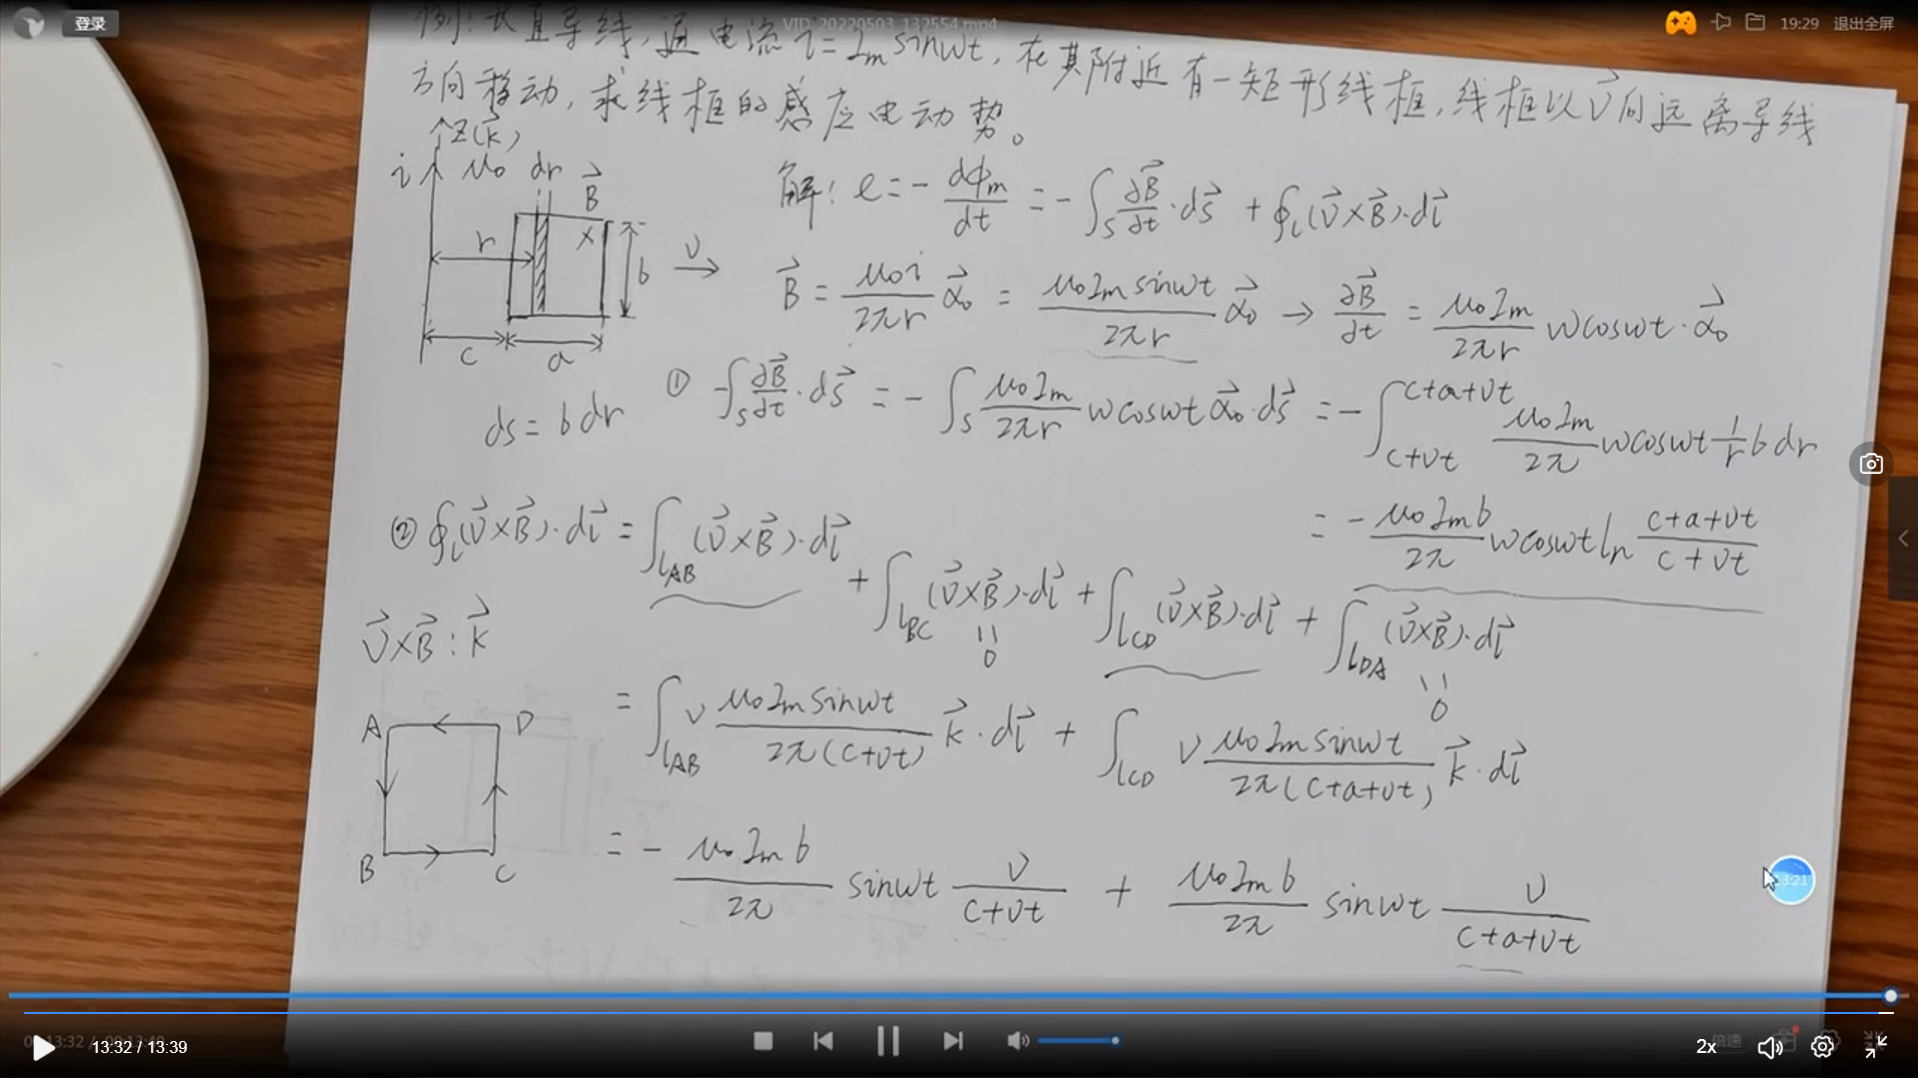
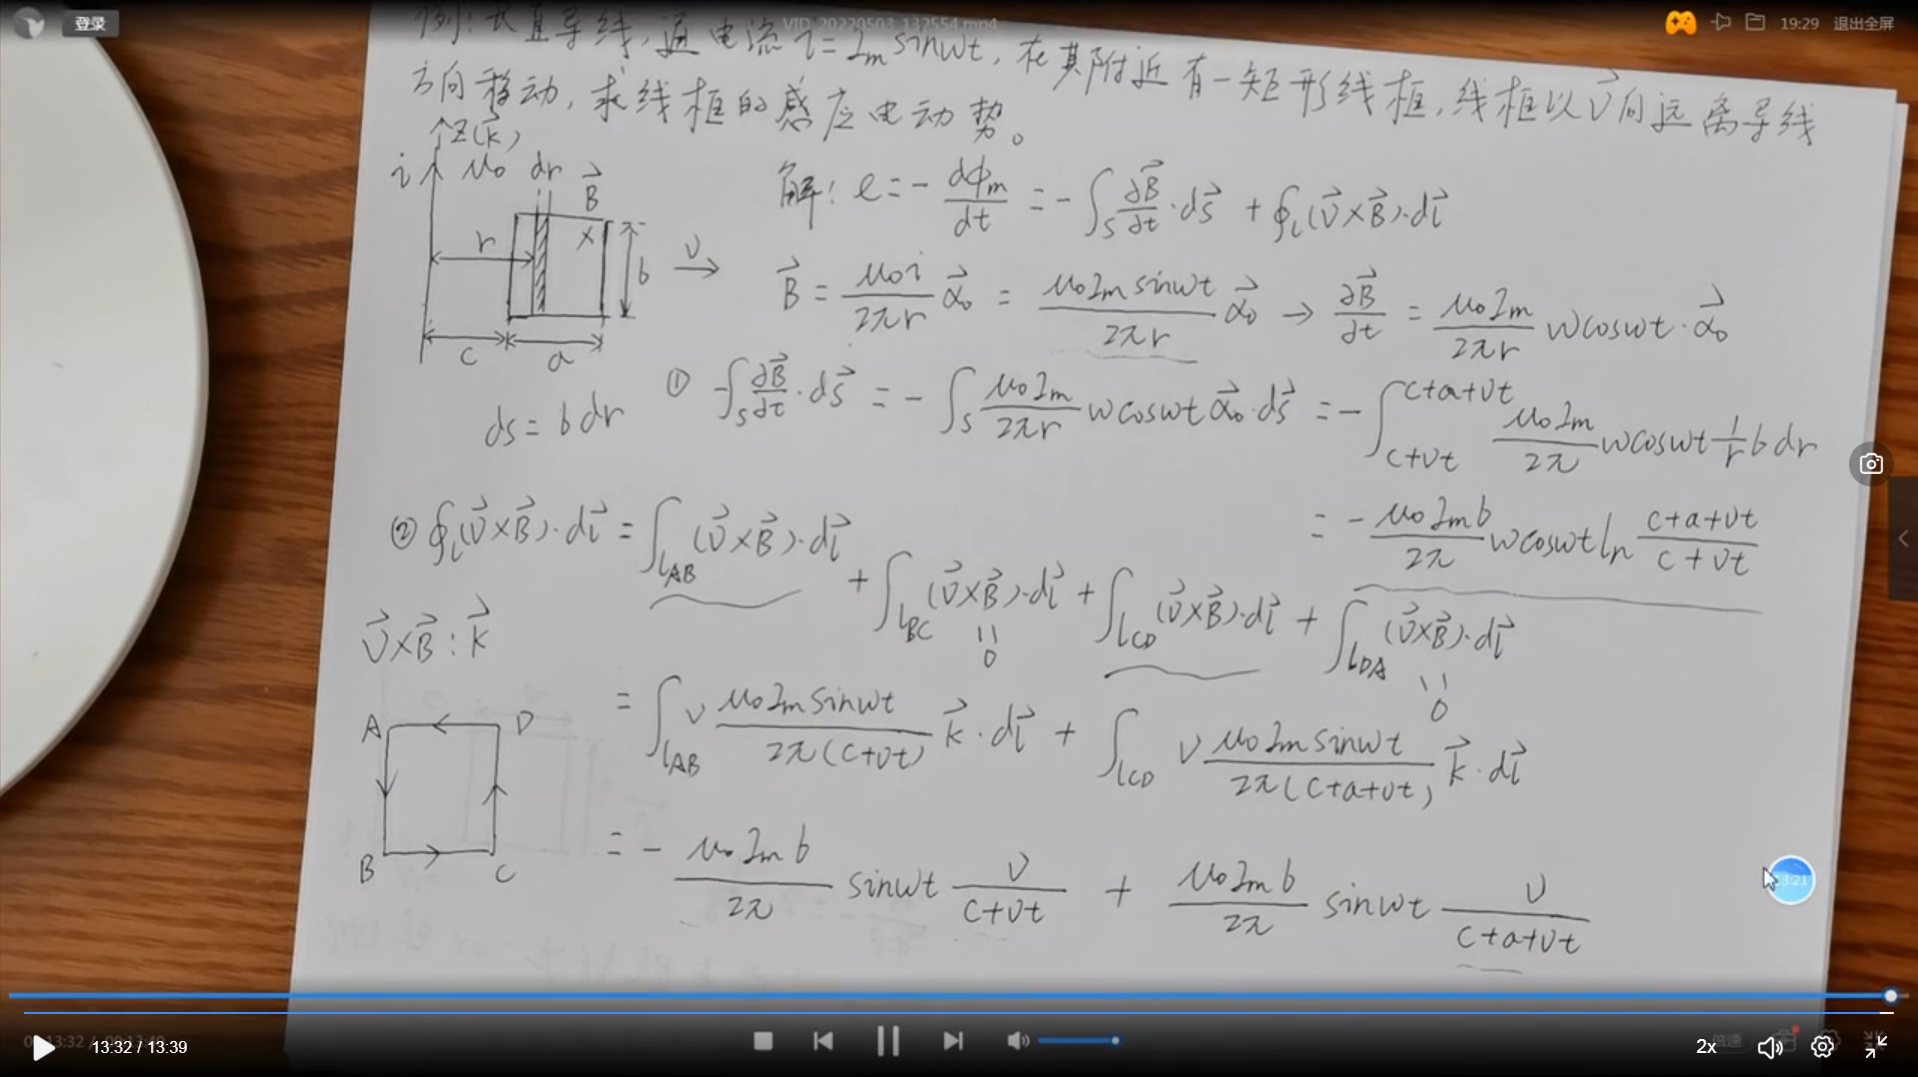
feat: 电磁场笔记公式规范化并清理电机学空壳文件

diff --git a/docs/电气/电磁场/电磁场-1.md b/docs/电气/电磁场/电磁场-1.md
@@ -10,7 +10,7 @@
         - 电位与电场强度一一对应，一个电位就是一个场强
 2. 电压 -> 电位差
 3. 环路定理
-    - E*L=0
+    - $$\oint E\cdot dl = 0$$
     - 电场内绕一圈回到原点，做功为0，则对力进行闭合线积分，结果为0，则面积分为0，说明无漩涡
     - 静电场中：试探电荷绕行一周，电势不变，做功为0
 ---
@@ -37,18 +37,18 @@
     - 积分形式：$$\oint E\cdot dS = \frac{q}{\varepsilon_0}$$ （面积分 = 常数）
         - 适用于电场对称情况下
         - 尽量推导一遍
-    - q = q₀ + q（极化）
+    - $$q = q_0 + q_{极化}$$
     - $$D = \varepsilon_0 E$$ $$\oint D\cdot dS = q$$
         - 算上极化电荷
-        - $$D = \varepsilon E = \varepsilon_0\varepsilon_r E$$（εᵣ为相对介电常数）
+        - $$D = \varepsilon E = \varepsilon_0\varepsilon_r E$$（εᵣ 为相对介电常数）
     - 算静电场用的
 ---
 ## 1-3
 1. 基本方程
     - $$\oint D\cdot dS = q$$   
-        - 微分形式：->  $$\nabla\cdot D = \rho$$ -> 说明静电场是有源场
+        - 微分形式：$$\nabla\cdot D = \rho$$ -> 说明静电场是有源场
     - $$\oint E\cdot dl = 0$$   
-        - 微分形式：->  $$\nabla\times E = 0$$ -> 说明能量守恒
+        - 微分形式：$$\nabla\times E = 0$$ -> 说明能量守恒
     - $$D = \varepsilon E$$
 2. 边界衔接条件
     - $$D_{2n} - D_{1n} = \sigma$$ -> 法向差值
@@ -117,7 +117,7 @@
     - 关系：电场能量 -> 电位 -> 电荷密度，一一相关
     - $$W = \frac{1}{2}q\varphi$$
 2. 能量密度
-    - $$w = \frac{1}{2}\varphi\rho$$（(1/2)×电荷密度×电位）
+    - $$w = \frac{1}{2}\varphi\rho$$（电荷密度 × 电位的一半）
         - $$w = \frac{1}{2}E\cdot D$$
     - 算的时候要注意：源本身具有能量，源外也有能量，要分两个区域都算出来
 3. 静电力
@@ -181,10 +181,10 @@
 1. 极化源外侧是无限大介质
     - 介质无限大，极化电荷体密度=0
 2. 公式理解
-    - E*S=(q0+q极化)/e0
-    - E*S=q0/e
-        - q0+q极化/q0 = e0/e
-            - q极化 = q*e/e0 - q
+    - $$E\cdot S = \frac{q_0 + q_{极化}}{\varepsilon_0}$$
+    - $$E\cdot S = \frac{q_0}{\varepsilon}$$
+        - $$\frac{q_0 + q_{极化}}{q_0} = \frac{\varepsilon_0}{\varepsilon}$$
+            - $$q_{极化} = q\frac{\varepsilon}{\varepsilon_0} - q$$
     - 极化电荷一般是比极化源少的负电荷
 ---
 ### 假设
@@ -194,11 +194,11 @@
 ### 常规场强/电位求取
 1. 场强：
     - 点电荷场强积分
-    - E*S = q/e
-    - 哈密顿算子*电位 = -E
+    - $$E\cdot S = \frac{q}{\varepsilon}$$
+    - $$\nabla\varphi = -E$$
 2. 电位
     - 场强在长度上积分
-    - 拉普拉斯算子*电位 = -ρ/e
+    - $$\nabla^2\varphi = -\frac{\rho}{\varepsilon}$$
         - 对电荷密度进行积分
 ### 分界面衔接条件
 1. 分界面，两个面电极化强度不同
@@ -228,7 +228,7 @@
         - 圆心半径：a
         - 圆心距离对称轴：h
         - 等效点距离对称轴：b
-    - 公式：a²+b² = h²
+    - 公式：$$a^2 + b^2 = h^2$$
 ### 电容
 ### 电场能量和电场力
 ---
@@ -238,13 +238,13 @@
 ### 2. 求场强
 - 长度2l，电荷密度t的导线，求与导线中心垂直的方向上距离x的点的场强
 ### 3. 证明
-- 证明E=-哈密顿算子*电位
+- 证明 $E = -\nabla\varphi$
 ### 4. 求场强，电位
 - 半径a，电荷密度ρ的圆盘，中心轴线上距离圆盘中心x的点的场强和电位
 ### 5. 边界条件，知道U，求场强
 - 圆柱心是导体，外套两层介质，介电常数分别为e1，e2，三层的半径分别是a，b，c,求E
 ### 6. 分界面衔接条件
-- 两个面，介电常数分别为`2e0`，`7e0`，`7e0`区域的电位为`10/x+2y²`，求两个区域的E,D
+- 两个面，介电常数分别为`2e0`，`7e0`，`7e0`区域的电位为$$\frac{10}{x} + 2y^2$$，求两个区域的E,D
 ### 7. 边界条件，知道U，求场强
 - 平行板电容器间，一侧U，一侧0，中间介电常数e，自由电荷密度ρ，求E
 ### 8. 边界条件，知道U，求场强
@@ -260,6 +260,6 @@
     - 假设时：只假设导体区域
 ### 13. 求电场能量
 - 真空，半径为a的球，介电常数e，电荷密度ρ，求能量
-    - 分两部分，球内，球外，1/2eE²
+    - 分两部分，球内，球外，$$\frac{1}{2}\varepsilon E^2$$
 ### 14. 求电场力
 - 平行电极板，电压差U

diff --git a/docs/电气/电磁场/电磁场-2.md b/docs/电气/电磁场/电磁场-2.md
@@ -9,45 +9,45 @@
         - 线: $$I$$
         - 面: $$dI = K\cdot dl$$
         - 体: $$dI = J\cdot dS$$
-            - $$J = \frac{I}{S} = nqv$$
+            - $$J = \frac{I}{S} = n\cdot q\cdot v$$
             - （n 为载流子数密度，q 为单个电荷，v 为漂移速度）
 ---
 ## 1-2
 ### 欧姆定律与焦耳定律
 1. 欧姆定律的微分形式
     - $$U = IR$$
-        - $$R = \frac{l}{\gamma S}(γ为电导率)$$
+        - $$R = \frac{l}{\gamma S}$$（γ 为电导率）
         - $$I = J\cdot S$$
             - $$J = \gamma E$$
 2. 焦耳定律的微分形式
-    - $$W = FL$$
+    - $$W = F\cdot L$$
         - $$F = qE$$
-        - $$W = FL = qEvtN$$
-            - N表示电荷数量
-            - $$J = Nqv$$
-            - 所以：$$W = JEvt$$
-        - $$w_e = JE$$
+        - $$W = F\cdot L = q\cdot E\cdot v\cdot t\cdot N$$
+            - N 表示电荷数量
+            - $$J = N\cdot q\cdot v$$
+            - 所以：$$W = J\cdot E\cdot v\cdot t$$
+        - $$w_e = J\cdot E$$
 ---
 ### 电源电动势和局外场强(没啥用)
 1. 电源能量
     - 电源：将电能转换为其他能量
     - 外力：将其他能量转换为电能
-    - $$外力场强：F_外/q = E_e$$
-    - $$电源电动势 \varepsilon = E_e\cdot l$$
+    - $$E_e = \frac{F_外}{q}$$（Eₑ 为局外场强）
+    - $$\varepsilon = E_e\cdot l$$（电源电动势）
 ---
 ### 电流连续性方程
 1. 电荷守恒
     - 单位时间，区域流出电荷量 = 区域内的减少量
     - $$\oint J\cdot dS = 0$$
-    - $$\nabla\cdot J = 0（微分形式）$$
+    - $$\nabla\cdot J = 0$$（微分形式）
 2. 恒定电场的基本方程
     - $$\oint J\cdot dS = 0$$
-        - $$微分形式:\nabla\cdot J = 0$$
+        - 微分形式：$$\nabla\cdot J = 0$$
     - $$\oint E\cdot dl = 0$$
-        - $$微分形式:\nabla\times E = 0$$
+        - 微分形式：$$\nabla\times E = 0$$
     - 两种情况
-        - $$路径含有电源：\oint (E+E_e)\cdot dl = 0$$
-        - $$路径不含电源：\oint E\cdot dl = 0$$
+        - 路径含有电源：$$\oint (E+E_e)\cdot dl = 0$$
+        - 路径不含电源：$$\oint E\cdot dl = 0$$
         > 电源电动势 ε
 3. 分界面的衔接条件
     - $$E_{1t} = E_{2t}$$
@@ -63,8 +63,8 @@
 ### 电导
 1. $$G = \frac{I}{U}$$
 2. 求法：
-    - 设I：$$I -> J = \frac{I}{S} -> E = \frac{J}{\gamma} -> U = E\cdot L$$
-    - 设U：$$U -> 电位 -> E = -\nabla\varphi -> J = \gamma E -> I = J\cdot S$$
+    - 设 I：$$I \to J = \frac{I}{S} \to E = \frac{J}{\gamma} \to U = E\cdot L$$
+    - 设 U：$$U \to \varphi \to E = -\nabla\varphi \to J = \gamma E \to I = J\cdot S$$
         - 如果电场分布有对称性，设电流
         - 如果没有，设电压
 ---
@@ -81,7 +81,7 @@
     - 这个电压差会对人体造成威胁
 2. 如何求解
     - 首先假设电流
-    - I -> J -> E -> U -> l
+    - $$I \to J \to E \to U \to l$$
 ---
 ## 老师的例题
 ### 1. 求电导

diff --git a/docs/电气/电磁场/电磁场-3.md b/docs/电气/电磁场/电磁场-3.md
@@ -10,7 +10,7 @@
 |对静止电荷有力|对运动电荷有力|
 
 2. 安培力定律
-    - $$F = BIL$$（电流元 l 与 B 垂直）
+    - $$F = B\cdot I\cdot L$$（电流元 l 与 B 垂直）
     - 毕奥-萨伐尔定律：$$dB = \frac{\mu}{4\pi}\cdot\frac{Idl\times\hat{r}}{r^2}$$
         - 线电流：$$B = \frac{\mu}{4\pi}\int\frac{Idl\times\hat{r}}{r^2}$$
         - 面电流：$$B = \frac{\mu}{4\pi}\int\frac{K\times\hat{r}}{r^2}\,dS$$
@@ -25,16 +25,16 @@
 3. 介质磁化
     - 介质内有磁偶极子
         - 磁偶极子原本的方向是杂乱无章，经过磁化，方向趋于一致，产生磁化电流
-            - 磁化电流的电流密度为 Jm
+            - 磁化电流的电流密度为 $J_m$
         - 磁化强度 $$M = \frac{P_m}{V}$$
-            - 关联式：$$\oint M\cdot dl = Jm\cdot S$$（即磁化电流 $$I_m = \oint M\cdot dl$$）
+            - 关联式：$$\oint M\cdot dl = J_m\cdot S$$（即磁化电流 $$I_m = \oint M\cdot dl$$）
         - 磁化电流与原本的电流叠加，影响磁感应强度
             - $$\oint B\cdot dl = \mu_0(I + I_1)$$
     - 结果
         - $$\oint B\cdot dl = \mu_0(I + I_1)$$
         - $$I_1 = \oint M\cdot dl$$
             - $$\oint B\cdot dl = \mu_0(I + \oint M\cdot dl)$$
-                - B = μ₀(H + M)... 见下
+                - $$B = \mu_0(H + M)$$... 见下
     - 磁场强度 H
         - $$H = \frac{B}{\mu_0} - M$$
     - 一般情况的安培环路定律
@@ -42,7 +42,7 @@
 4. 磁导率 μ
     - $$B = \mu_0(H + M)$$，其中 $$M = \chi_m H$$
     - $$\mu = \mu_0(1 + \chi_m) = \mu_0\mu_r$$
-        - μᵣ = 1 + χm：相对磁导率，χm为磁化率
+        - $\mu_r = 1 + \chi_m$：相对磁导率，$\chi_m$ 为磁化率
 5. 基本方程
     - $$\oint B\cdot dS = 0$$（磁通连续性）
         - 微分形式：$$\nabla\cdot B = 0$$
@@ -87,7 +87,7 @@
 ---
 ### 电感
 1. 电感
-    - 自感：$$L = \frac{\Psi}{I} = \frac{N\Phi}{I}$$
+    - 自感：$$L = \frac{\Psi}{I} = \frac{N\cdot\Phi}{I}$$
         - 单匝线圈：$$L = \frac{\Phi}{I} = \frac{B\cdot S}{I}$$
         - 多匝线圈：$$L = \frac{N\cdot B\cdot S}{I}$$
 2. 磁链
@@ -101,9 +101,9 @@
 ### 磁场能量与力
 1. 磁场能量
     - 单线圈：$$W = \frac{1}{2}L\cdot I^2$$
-    - 多线圈：$$W = \frac{1}{2}L_1I_1^2 + \frac{1}{2}L_2I_2^2 + M\cdot I_1I_2$$
+    - 多线圈：$$W = \frac{1}{2}L_1I_1^2 + \frac{1}{2}L_2I_2^2 + M\cdot I_1\cdot I_2$$
         - $$\frac{1}{2}L\cdot I^2$$ -> 自有能
-        - $$M\cdot I_1I_2$$ -> 互有能
+        - $$M\cdot I_1\cdot I_2$$ -> 互有能
 2. 能量密度
     - $$w = \frac{1}{2}B\cdot H$$
 3. 磁场力

diff --git a/docs/电气/电磁场/电磁场-4.md b/docs/电气/电磁场/电磁场-4.md
@@ -4,23 +4,54 @@
 ---
 ### 电磁感应定律
 1. $$e = -\frac{d\Phi}{dt}$$（感应电动势 = 磁通变化率）
+    - 磁通变化 -> 产生感应电流 -> 说明存在感应电压 -> 磁生电
+    - 右手定则判断方向 
 2. 类型
     - 感生电动势（磁通变化）
         - $$e = \frac{d(B\cdot S)}{dt}$$
     - 动生电动势（导体切割磁力线）
         - $$e = B\cdot L\cdot v$$
 3. 感应电场
-    - e = 感生电动势 + 动生电动势
-        - 闭合曲线，无头无尾 
+    - $$e = e_感 + e_动$$
+        - 由变化的磁场激发，存在空间任意一点
+        - 闭合曲线，无头无尾
 ---
 ### 全电流定律
 - 全电流 I = 传导电流 + 位移电流
+- $$\oint H\cdot dl = \int J\cdot dS$$
+    - 推导：$$\oint H\cdot dl = \int (J_{传导} + J_{位移})\cdot dS$$
+    - 传导电流是源自带电流
+    - 位移电流是场生电流
+        - $$J_{位移} = \frac{\partial D}{\partial t}$$
 ---
-## 公式汇总
-| 公式 | 名称/含义 |
-|------|-----------|
-| $$e = -\frac{d\Phi}{dt}$$ | 电磁感应定律（感应电动势 = 磁通变化率） |
-| $$e = \frac{d(B\cdot S)}{dt}$$ | 感生电动势（磁通变化） |
-| $$e = B\cdot L\cdot v$$ | 动生电动势（导体切割磁力线） |
-| 全电流 $$I = I_c + I_d$$（传导 + 位移） | 全电流定律（电 → 磁的闭环） |
+### 小结
+1. $$E = E_感 + E_动$$
+    - 积分形式：$$\oint E\cdot dl = -\frac{d}{dt}\int B\cdot dS + \int (v\times B)\cdot dl$$
+    - 微分形式：$$\nabla\times E = -\frac{\partial B}{\partial t} + \nabla\times(v\times B)$$
+2. $$J_{位移} = \frac{\partial D}{\partial t}$$
+    - 积分形式：$$\oint H\cdot dl = \int (J + J_D)\cdot dS$$
+        - $$J_D = \frac{\partial D}{\partial t}$$
+    - 微分形式：$$\nabla\times H = J + \frac{\partial D}{\partial t}$$
+---
+### 电磁场基本方程
+1. 积分形式
+    - $$\oint H\cdot dl = \int (J + \frac{\partial D}{\partial t})\cdot dS$$
+    - $$\oint E\cdot dl = -\int \frac{\partial B}{\partial t}\cdot dS$$
+    - $$\oint B\cdot dS = 0$$
+    - $$\oint D\cdot dS = q$$
+2. 微分形式
+    - $$\nabla\times H = J + \frac{\partial D}{\partial t}$$
+    - $$\nabla\times E = -\frac{\partial B}{\partial t}$$
+    - $$\nabla\cdot B = 0$$
+    - $$\nabla\cdot D = \rho$$
+3. 媒质特性
+    - $$D = \varepsilon E$$
+    - $$B = \mu H$$
+    - $$J = \gamma E$$
+---
+### 边界面衔接条件
+1. 切向：$$E_{1t} = E_{2t}$$
+2. 切向：$$H_{1t} - H_{2t} = J_s$$
+3. 法向：$$B_{1n} = B_{2n}$$
+4. 法向：$$D_{1n} - D_{2n} = \sigma$$
 ---

diff --git a/docs/电气/电磁场/电磁场-0.md b/docs/电气/电磁场/电磁场-0.md
@@ -3,8 +3,8 @@
 ## 方向导数
 - 标量沿着某一方向的变化速度
     - $$\text{方向导数} = \text{梯度}\cdot\cos(\text{方向与梯度的夹角})$$
-- 方向导数最大为 |g|，沿梯度方向
-    - 向其他角度变化时，该方向的方向导数 = $$|g|\cos(g, e)$$（g 为梯度矢量，e 为方向单位向量）
+- 方向导数最大为 $|g|$，沿梯度方向
+    - $$向其他角度变化时，该方向的方向导数 = |g|\cos(g, e)（g 为梯度矢量，e 为方向单位向量）$$
 - 梯度与等值面垂直
 ---
 ## 哈密顿算子
@@ -16,7 +16,7 @@
     - 如果曲面闭合成体，则入通量和出通量抵消
         - 有源，则根据通量结果判断源的类型：+/=/0
     - 例如：磁通量
-        - 磁通 $$\Phi = B\cdot S\cdot\sin\alpha$$
+        - $$\Phi = B\cdot S\cdot\sin\alpha$$
 2. 散度
     - 通量在闭合曲面内，闭合区域内每一个体积点所具有的通量叫作散度
         - 散度 = 通量/体积
